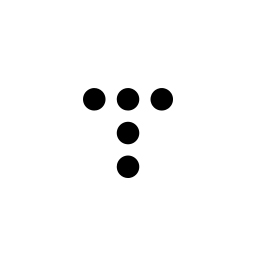
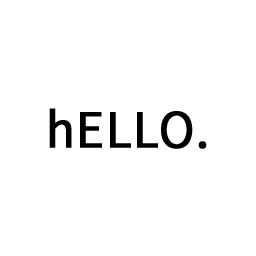
hELLO

Changed region(s): [[0.3125, 0.3438, 0.75, 0.7188], [0.1875, 0.4062, 0.2812, 0.5938], [0.7812, 0.5312, 0.8125, 0.5938]]

diff --git a/README.md b/README.md
@@ -1,10 +1,13 @@
-# Tidory Framework
+# hELLO
 
-[Tidory Framework](http://www.tidory.com) is a framework for [Tistory Skin](https://www.tistory.com/). \
-This template is for **tidory 7.2.x**.
+<p align="center">
+  <img src="https://github.com/pronist/hELLO/blob/master/hELLO.png" width="400">
+</p>
+
+**hELLO** is a simple **Tistory Skin**. Powered by [Tidory Framework](http://www.tidory.com).
 
 ## License
 
-[MIT](https://github.com/tidory/tidory/blob/7.2/LICENSE)
+[MIT](https://github.com/pronist/hELLO/blob/master/LICENSE)
 
-Copyright 2018-2020. [SangWoo Jeong](https://github.com/pronist). All rights reserved.
+Copyright 2020. [SangWoo Jeong](https://github.com/pronist). All rights reserved.
